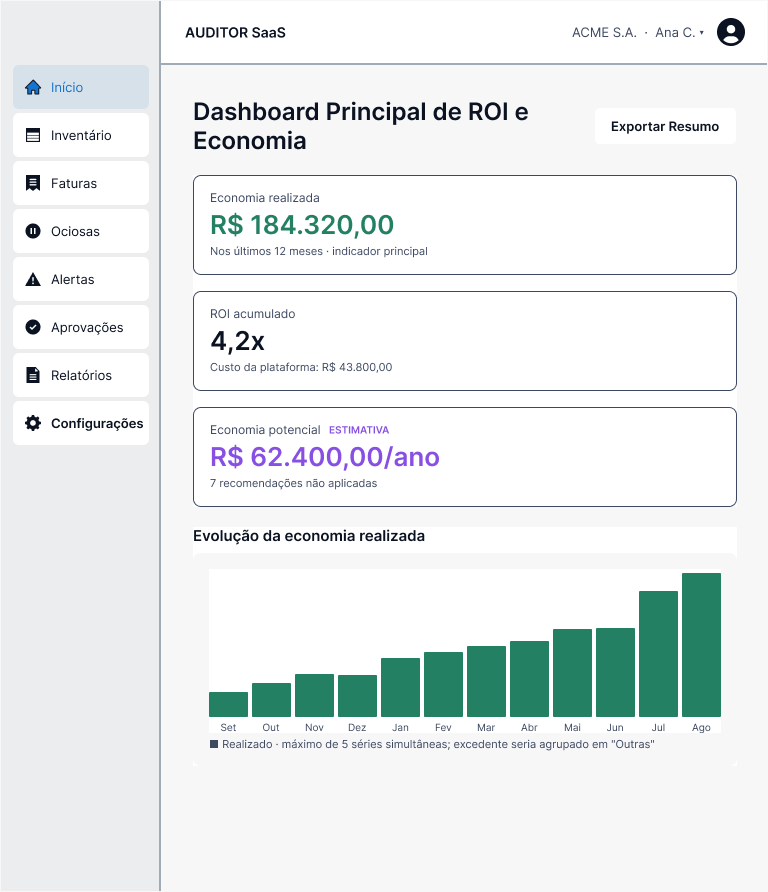
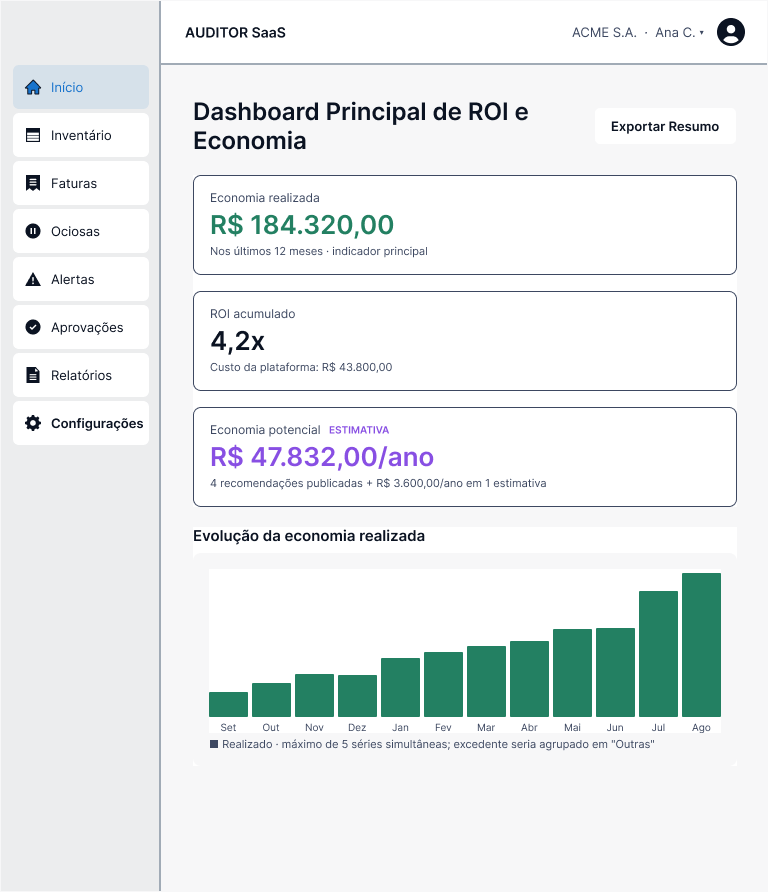
Aplica AJ-11 na SCR-08 e registra o aceite da equipe no termo

Changed region(s): [[0.3125, 0.4843, 0.5938, 0.5448], [0.6562, 0.5146, 0.6875, 0.5448]]

diff --git a/semana-14/entregavel-02-handoff-figma-termo-aceite.md b/semana-14/entregavel-02-handoff-figma-termo-aceite.md
@@ -3,7 +3,7 @@
 **Projeto:** Auditor e Otimizador de Assinaturas SaaS Corporativas  
 **Iteração:** Semana 14 (09/11/2026 – 15/11/2026) — Handoff Técnico e Encerramento  
 **Responsável:** D1 / D2 (Designers), com AR1 / AR2  
-**Situação:** ⏳ **Pendente de aceite** — pacote de handoff descrito e termo redigido; **termo não assinado** e preparação do arquivo no Figma a conferir  
+**Situação:** ✅ **Aceito pela equipe** — pacote de handoff descrito e termo com o aceite dos 5 integrantes; falta a linha do orientador  
 **Prazo:** 15/11/2026  
 
 ---
@@ -20,8 +20,8 @@ e o **Termo de Aceite** (Seção 7).
 | Inventário de telas e de capturas | ✅ Pronto (Seção 3) |
 | Guia de leitura para desenvolvedores | ✅ Pronto (Seções 4 e 5) |
 | Preparação do arquivo para handoff no Figma | ⏳ A conferir pela D1/D2 (Seção 6) |
-| Versão final do protótipo, com os ajustes da Semana 13 | ◐ 12 de 14 ajustes aplicados; `AJ-11` aguarda a P-62 |
-| Termo de Aceite | ⏳ Redigido; **sem assinatura** (Seção 7) |
+| Versão final do protótipo, com os ajustes da Semana 13 | ✅ 13 de 14 ajustes aplicados (o `AJ-14` era opcional) |
+| Termo de Aceite | ✅ Aceite da equipe registrado (Seção 7); falta a linha do orientador |
 
 > **O que este documento não afirma.** O arquivo do Figma não foi aberto nesta iteração. O
 > inventário abaixo vem dos registros de entrega das Semanas 08 a 11 e das capturas versionadas
@@ -39,7 +39,7 @@ e o **Termo de Aceite** (Seção 7).
 | Quadro das telas | "02 · Wireframes", um quadro por tela (registro da Semana 08) |
 | Ponto de partida do protótipo | HF-41 — Estado vazio da SCR-01 (*Início — primeiro acesso*) |
 | Versão de referência | Protótipo ligado na Semana 11, com a correção da P-50 |
-| Versão final (com os ajustes da Semana 13) | No mesmo arquivo: 12 de 14 ajustes aplicados; `AJ-11` aguarda a P-62 |
+| Versão final (com os ajustes da Semana 13) | No mesmo arquivo: 13 de 14 ajustes aplicados |
 | Permissão de acesso para a Engenharia | A conferir (Seção 6) |
 
 ---
@@ -123,9 +123,8 @@ Decisões que valem para todas as telas e que uma captura de tela não revela:
 ### 4.3. Valores de exemplo
 
 Os números exibidos nas telas Hi-Fi seguem a **massa canônica** (S8·E1 e S9·E1, Seção 10). Os
-valores dos wireframes Lo-Fi e Mid-Fi estão superados. O período e o filtro da SCR-10a foram
-alinhados na Semana 13 (`AJ-09`, `AJ-10`). Um ponto do Hi-Fi ainda diverge da massa canônica: a
-contagem de recomendações da SCR-08 (`AJ-11`, P-62).
+valores dos wireframes Lo-Fi e Mid-Fi estão superados. Os pontos que divergiam (período e filtro da
+SCR-10a, contagem de recomendações da SCR-08) foram alinhados na Semana 13 (`AJ-09` a `AJ-11`).
 
 ---
 
@@ -164,7 +163,7 @@ Itens que só podem ser conferidos dentro do arquivo. Nenhum foi marcado nesta v
 - [ ] Estilos de cor e de texto ligados aos tokens, e não a valores soltos
 - [ ] Telas prontas separadas de rascunhos e de versões antigas (Lo-Fi e Mid-Fi)
 - [ ] Ponto de partida do protótipo em HF-41 e fluxo percorrível de T1 a T8
-- [x] Ajustes `AJ-01` a `AJ-13` aplicados e capturas reexportadas, exceto o `AJ-11` (P-62)
+- [x] Ajustes `AJ-01` a `AJ-13` aplicados e capturas reexportadas
 - [ ] Imagens e ícones marcados para exportação
 - [ ] Versão nomeada no histórico do arquivo (por exemplo, "Handoff v1.0") e registrada na Seção 2
 
@@ -172,15 +171,13 @@ Itens que só podem ser conferidos dentro do arquivo. Nenhum foi marcado nesta v
 
 ## 7. Termo de Aceite do Protótipo
 
-> **Minuta.** O texto abaixo está pronto para ser assinado. Enquanto os campos de assinatura
-> estiverem em branco, **o protótipo não está aceito**.
+> **Aceite da equipe registrado em 19/11/2026.** Falta só a linha do orientador ou cliente.
 
 ### TERMO DE ACEITE DO PROTÓTIPO DE ALTA FIDELIDADE
 
 **Projeto:** Auditor e Otimizador de Assinaturas SaaS Corporativas  
 **Objeto:** protótipo navegável de alta fidelidade, publicado no arquivo "Projeto de Software" do Figma  
-**Versão aceita:** `____________________` (nome da versão no histórico do Figma)  
-**Data da versão:** `____ / ____ / ________`
+**Versão aceita:** estado do arquivo no Figma em 19/11/2026, com os ajustes da Semana 13
 
 #### 7.1. O que está sendo aceito
 
@@ -207,7 +204,7 @@ aceite, desde que fique registrada.
 | # | Ressalva | Referência | Resolvida? |
 |:--|:---|:---|:---:|
 | R1 | Testes de usabilidade com os usuários-alvo não realizados; só 1 sessão simulada pela equipe (SUS 90, n = 1) | S13·E1 · P-60 | ☐ Sim ☐ Não |
-| R2 | Ajuste `AJ-11` do protótipo não aplicado (depende da P-62); os demais foram aplicados | S13·E2 | ☐ Sim ☐ Não |
+| R2 | Ajustes `AJ-01` a `AJ-13` do protótipo aplicados na Semana 13 | S13·E2 | ☒ Sim ☐ Não |
 | R3 | Decisões DEC-66 a DEC-100 não ratificadas | Anexo B · P-63 | ☐ Sim ☐ Não |
 | R4 | Correções CU-01 a CU-14 não aplicadas aos documentos de origem | S13, Anexo A | ☐ Sim ☐ Não |
 | R5 | API restrita a `/erp/*`, com duas enumerações incompletas e testes sem execução registrada | Dossiê, Seção 7 · P-36 · P-66 | ☐ Sim ☐ Não |
@@ -224,12 +221,15 @@ ficam registradas como trabalho remanescente.
 
 | Papel | Nome | Assinatura | Data |
 |:---|:---|:---|:---|
-| AR1 — Analista de Requisitos (Bloco A) | | | |
-| AR2 — Analista de Requisitos (Bloco B) | | | |
-| D1 — Designer (Bloco A) | | | |
-| D2 — Designer (Bloco B) | | | |
-| Representante do time de Engenharia | | | |
+| AR1 — Analista de Requisitos | Matheus Augusto de Paula Soares | De acordo | 19/11/2026 |
+| AR2 — Analista de Requisitos | Fabio Firanzi Bidjoque da Costa | De acordo | 19/11/2026 |
+| AR3 — Analista de Requisitos ¹ | Tiago Correia Braga | De acordo | 19/11/2026 |
+| D1 — Designer | Heitor Dias Ribeiro | De acordo | 19/11/2026 |
+| D2 — Designer | Júlia Elloá Fideles Barbosa | De acordo | 19/11/2026 |
+| Representante do time de Engenharia | Não se aplica (trabalho acadêmico, sem time de Engenharia) | — | — |
 | Orientador ou cliente | | | |
+
+¹ O `estudo_caso1.md` prevê 4 papéis (AR1, AR2, D1 e D2). O AR3 foi acrescentado porque a equipe tem 5 integrantes.
 
 ---
 
@@ -239,7 +239,7 @@ Nenhuma decisão nova.
 
 | ID | Item | Encaminhamento |
 |:---|:---|:---|
-| P-65 | Termo de Aceite sem assinatura e sem versão do Figma indicada | Equipe: conferir a Seção 6, publicar a versão e colher as assinaturas |
+| P-65 | Termo de Aceite sem assinatura e sem versão do Figma indicada | **Resolvida** — versão indicada (estado do arquivo em 19/11/2026) e aceite da equipe registrado em 19/11/2026 |
 
 ---
 

diff --git a/semana-13/README.md b/semana-13/README.md
@@ -26,7 +26,7 @@
 | Equipe | Atividade prevista no cronograma | Situação | Onde está |
 |:---|:---|:---:|:---|
 | **AR1 / AR2** | Atualização da especificação funcional e requisitos com base no feedback dos usuários | ◐ Parcial — sem feedback de usuário; errata conferida (14 correções registradas, 0 aplicadas) | Anexo A |
-| **D1 / D2** | Ajuste fino das telas, fluxos de navegação e componentes no protótipo | Concluído — 12 de 14 ajustes aplicados no Figma, 9 telas novas | Entregável 2 |
+| **D1 / D2** | Ajuste fino das telas, fluxos de navegação e componentes no protótipo | Concluído — 13 de 14 ajustes aplicados no Figma, 9 telas novas | Entregável 2 |
 
 ---
 
@@ -35,7 +35,7 @@
 | # | Entregável | Documento | Resp. |
 |:--|:---|:---|:---|
 | 1 | Relatório de Avaliação de Usabilidade e Cálculo da Nota SUS | [entregavel-01-relatorio-avaliacao-usabilidade-sus.md](entregavel-01-relatorio-avaliacao-usabilidade-sus.md) — ◐ **parcial**. Método do SUS, protocolo de análise e inspeção (9 fricções) prontos; **nota SUS 90 com 1 questionário (USR-01, simulada)** | AR1/AR2 |
-| 2 | Protótipo Hi-Fi Refatorado com Ajustes Visuais e de Fluxo | [entregavel-02-prototipo-hifi-refatorado.md](entregavel-02-prototipo-hifi-refatorado.md) — ✅ **aplicado**. 14 ajustes especificados (`AJ-01` a `AJ-14`); **12 aplicados ou conferidos no Figma**, 9 telas novas em [`wireframes/semana-13/`](../wireframes/semana-13/) | D1/D2 |
+| 2 | Protótipo Hi-Fi Refatorado com Ajustes Visuais e de Fluxo | [entregavel-02-prototipo-hifi-refatorado.md](entregavel-02-prototipo-hifi-refatorado.md) — ✅ **aplicado**. 14 ajustes especificados (`AJ-01` a `AJ-14`); **13 aplicados ou conferidos no Figma**, 9 telas novas em [`wireframes/semana-13/`](../wireframes/semana-13/) | D1/D2 |
 | — | Anexo: atualização da especificação funcional (atividade da AR1/AR2) | [anexo-a-atualizacao-especificacao-funcional.md](anexo-a-atualizacao-especificacao-funcional.md) — errata CU-01 a CU-14 conferida arquivo a arquivo; 6 ajustes no roteiro de teste | AR1/AR2 |
 
 O cronograma não prevê Entregável 3 (diagramas UML) nesta semana, e a matriz de
@@ -82,7 +82,7 @@ O cronograma não prevê Entregável 3 (diagramas UML) nesta semana, e a matriz 
 | Fricções encontradas por inspeção | 9 (`FR-01` a `FR-09`): 1 de fluxo que afeta 5 tarefas, 1 alta, 4 médias, 3 baixas |
 | Tarefas do roteiro sem término mensurável | 0 de 8 depois dos ajustes (eram 5, mais T6 sem a peça de e-mail) |
 | Exemplos do `estudo_caso1.md` conferidos contra o Hi-Fi | 3 de 3 já tratados no desenho |
-| Ajustes especificados para o protótipo | 14 (`AJ-01` a `AJ-14`): 8 de fluxo, 6 de conteúdo e higiene · 12 aplicados ou conferidos |
+| Ajustes especificados para o protótipo | 14 (`AJ-01` a `AJ-14`): 8 de fluxo, 6 de conteúdo e higiene · 13 aplicados ou conferidos |
 | Telas novas no protótipo | 9 (8 estados de confirmação e o e-mail de alerta) |
 | Ligações do protótipo | 309 de navegação + 27 de aprofundamento (Semana 11: 248 + 9) |
 | Correções `CU` conferidas | 14 registradas · 0 aplicadas · 2 liberadas para aplicação |
@@ -114,7 +114,7 @@ A numeração continua a da Semana 12 (última: DEC-95). Todas estão como **Pro
 | P-59 | E-mail simulado da T6 (RI-20) não existe | **Resolvida** — e-mail produzido com os valores da SCR-06 (`AJ-08`) |
 | P-60 | Realização das sessões com os usuários-alvo: a Semana 12 executou só a USR-01, simulada pela equipe | Equipe e orientador definem data e participantes (com a P-54) |
 | P-61 | Conferir na fonte as faixas de leitura do SUS e a versão em português dos enunciados | AR1, antes do relatório final |
-| P-62 | SCR-08 mostra 7 recomendações e R$ 62.400,00/ano; a massa canônica do Bloco A tem 5 | AR2 e D2: alinhar ou declarar o período (`AJ-11`) |
+| P-62 | SCR-08 mostra 7 recomendações e R$ 62.400,00/ano; a massa canônica do Bloco A tem 5 | **Resolvida** — alinhado à massa canônica (`AJ-11`) |
 | P-63 | Ratificação das decisões DEC-66 a DEC-100, todas em situação *Proposta* | Reunião da equipe antes do handoff |
 | P-64 | Aplicar CU-01 e CU-02, que não dependem de decisão pendente | Responsáveis pela Semana 02 |
 
@@ -135,7 +135,7 @@ A marcar pela equipe:
 
 - [x] Decidir a P-58 e aplicar `AJ-01` a `AJ-08` no Figma
 - [x] Aplicar os ajustes de conteúdo (`AJ-09`, `AJ-10`, `AJ-12`, `AJ-13`)
-- [ ] Decidir a P-62 (`AJ-11`)
+- [x] Decidir a P-62 e aplicar o `AJ-11`
 - [ ] Atualizar o roteiro (`RT-01` a `RT-06`) na aba `Catalogo` da planilha da Semana 12
 - [ ] Realizar as sessões (P-60), depois de resolver P-53, P-54 e P-55
 - [x] Calcular a nota SUS e preencher as Seções 7.1 a 7.3 do Entregável 1 (USR-01)
@@ -161,7 +161,7 @@ A marcar pela equipe:
 ## Entradas para a Semana 14 (Handoff Técnico e Encerramento)
 
 - **Entregável 1** → o dossiê registra a validação com usuários-alvo como **não realizada**; existe só a sessão simulada USR-01 (SUS 90, n = 1).
-- **Entregável 2** → o handoff parte do protótipo com os ajustes aplicados; só o `AJ-11` (P-62) segue como ressalva.
+- **Entregável 2** → o handoff parte do protótipo com os ajustes aplicados.
 - **Anexo A, Seção 3** → seção de erratas do dossiê (CU-01 a CU-14 e a regra DEC-100).
 - **Anexo A, Seção 5** → itens propostos e não incorporados (cenários, `ENT`, `MSG`, parâmetros).
 - **P-63** → condição do Termo de Aceite: 35 decisões aguardam ratificação.
@@ -188,7 +188,7 @@ semana-13/
   registro de ligações da Semana 11; se houver ligação não documentada, ela muda. A conferência
   no Figma é o primeiro item do Entregável 2. Só quatro capturas foram abertas (SCR-02b,
   SCR-08, SCR-09 e SCR-10a).
-- **O `AJ-11` não foi aplicado**: depende da P-62. O `AJ-14`, opcional, também não foi feito.
+- **O `AJ-14`, opcional, não foi feito.**
 - **As faixas de leitura do SUS** foram citadas de memória da literatura e precisam ser
   conferidas na fonte (P-61).
 - **A conferência das `CU`** foi feita por busca de texto: prova que o trecho antigo continua

diff --git a/semana-14/README.md b/semana-14/README.md
@@ -25,7 +25,7 @@
 |:---|:---|:---:|:---|
 | **Equipe integrada** | Liberação da Matriz de Rastreabilidade final | ✅ Consolidada | Entregável 1, Anexo A |
 | **Equipe integrada** | Liberação da Swagger API Spec | ◐ Parcial — só `/erp/*`; duas correções e a execução dos testes pendentes | Entregável 1, Seção 7 |
-| **Equipe integrada** | Liberação do Protótipo Interativo Hi-Fi | ◐ Versão com os ajustes da Semana 13 (12 de 14 aplicados; `AJ-11` aguarda a P-62) | Entregável 2 |
+| **Equipe integrada** | Liberação do Protótipo Interativo Hi-Fi | ✅ Versão com os ajustes da Semana 13 (13 de 14 aplicados; o `AJ-14` era opcional) | Entregável 2 |
 | **Equipe integrada** | Liberação do Design System para a Engenharia | ✅ Indexado, com ressalvas | Entregável 2, Seção 5 |
 
 ---
@@ -37,7 +37,7 @@
 | 1 | Dossiê Completo de Engenharia de Requisitos (Visão, Especificações e Swagger) | [entregavel-01-dossie-engenharia-requisitos.md](entregavel-01-dossie-engenharia-requisitos.md) — ◐ **consolidado, com ressalvas** | Equipe |
 | 1-A | Anexo: Matriz de Rastreabilidade Final | [anexo-a-matriz-rastreabilidade-final.md](anexo-a-matriz-rastreabilidade-final.md) — 10 requisitos em 12 camadas | Equipe |
 | 1-B | Anexo: Registro de Decisões e Pendências | [anexo-b-registro-decisoes-pendencias.md](anexo-b-registro-decisoes-pendencias.md) — DEC-01 a DEC-100 e P-01 a P-67 | Equipe |
-| 2 | Link Final do Figma com Handoff para Desenvolvedores e Termo de Aceite do Protótipo | [entregavel-02-handoff-figma-termo-aceite.md](entregavel-02-handoff-figma-termo-aceite.md) — ⏳ **pendente de aceite**. Pacote de handoff descrito; termo redigido e **sem assinatura** | D1/D2 |
+| 2 | Link Final do Figma com Handoff para Desenvolvedores e Termo de Aceite do Protótipo | [entregavel-02-handoff-figma-termo-aceite.md](entregavel-02-handoff-figma-termo-aceite.md) — ✅ **aceito pela equipe**. Pacote de handoff descrito; termo com o aceite dos 5 integrantes | D1/D2 |
 
 O cronograma não prevê entregável de diagramas UML nesta semana. O índice dos diagramas, com a
 versão vigente de cada um, está no Entregável 1, Seção 6.
@@ -81,7 +81,7 @@ versão vigente de cada um, está no Entregável 1, Seção 6.
 | Requisitos prontos para engenharia, com ressalvas | 10 de 10 |
 | Requisitos validados com usuários | 0 de 10 |
 | Decisões registradas | 100 — 65 decididas · **35 propostas** |
-| Pendências registradas | 67 — 17 resolvidas · 10 com resolução proposta ou parcial · **40 abertas** |
+| Pendências registradas | 67 — 19 resolvidas · 10 com resolução proposta ou parcial · **38 abertas** |
 | Correções `CU` | 14 registradas · 0 aplicadas |
 | Diagramas UML indexados | 7 tipos, com versão vigente e ressalva |
 | Caminhos da API especificados | 9, todos em `/erp/*` |
@@ -103,7 +103,7 @@ Nenhuma decisão nova nesta iteração. O registro consolidado das 100 decisões
 
 | ID | Item | Encaminhamento |
 |:---|:---|:---|
-| P-65 | Termo de Aceite sem assinatura e sem versão do Figma indicada | Equipe: conferir o arquivo (Entregável 2, Seção 6), publicar a versão e colher as assinaturas |
+| P-65 | Termo de Aceite sem assinatura e sem versão do Figma indicada | **Resolvida** — versão indicada e aceite da equipe registrado |
 | P-66 | Não há registro de execução dos testes automatizados da Semana 07 (`npm test`, `validar_openapi.py`); esta iteração também não os executou | Executar e registrar o resultado antes de liberar a API |
 | P-67 | A Semana 12 não tem seção no `definicoes.md` (as Semanas 13 e 14 foram acrescentadas nesta entrega) | **Resolvida** — seção acrescentada |
 
@@ -125,12 +125,12 @@ A marcar pela equipe. Os quatro primeiros itens são condição do aceite.
 - [ ] Ratificar DEC-66 a DEC-100 (P-63)
 - [ ] Aplicar CU-01 a CU-14 nos arquivos de origem
 - [ ] Executar e registrar os testes da Semana 07 (P-66)
-- [x] Aplicar `AJ-01` a `AJ-13` no Figma (exceto o `AJ-11`, que depende da P-62)
+- [x] Aplicar `AJ-01` a `AJ-13` no Figma
 - [ ] Publicar a versão de handoff e conferir a Seção 6 do Entregável 2
 - [ ] Decidir o escopo da API (P-36)
 - [ ] Realizar as sessões de teste e fechar o relatório da Semana 13 (P-60)
 - [ ] Encaminhar parâmetros ao cliente e pendências de conformidade ao DPO e ao jurídico
-- [ ] Assinar o Termo de Aceite (P-65)
+- [x] Assinar o Termo de Aceite (P-65) — falta só a linha do orientador
 - [ ] Atualizar a coluna "Status UI/UX" do `estudo_caso1.md` ou apontá-la para a matriz final
 
 ---
@@ -171,6 +171,6 @@ semana-14/
   das Semanas 08 a 11.
 - **Nenhum teste automatizado foi executado** nesta iteração.
 - **O mapa de recursos da API é insumo**, e não especificação.
-- **O Termo de Aceite é minuta.** Sem assinatura, não há aceite.
+- **O Termo de Aceite tem o aceite da equipe**, mas não a do orientador.
 - **A situação das pendências** é a do último documento que cita cada uma; uma pendência
   resolvida fora do repositório aparece aqui como aberta.

diff --git a/semana-14/entregavel-01-dossie-engenharia-requisitos.md b/semana-14/entregavel-01-dossie-engenharia-requisitos.md
@@ -34,7 +34,7 @@ os artefatos das 13 semanas: diz o que existe, onde está, em que versão e com 
 | Matriz de rastreabilidade final | ✅ Consolidada | 0 de 10 requisitos "Concluído" pelo critério proposto; 10 de 10 com ressalvas |
 | Especificações (BDD, regras, dicionário, UML) | ✅ Entregues | 14 correções registradas e não aplicadas; 35 decisões não ratificadas |
 | Swagger / OpenAPI | ◐ Parcial | Cobre só `/erp/*` (versão 0.1.0); duas correções pendentes; testes não executados |
-| Protótipo interativo Hi-Fi | ◐ Entregue na Semana 11, ajustado na Semana 13 | 12 de 14 ajustes aplicados; `AJ-11` aguarda a P-62 |
+| Protótipo interativo Hi-Fi | ✅ Entregue na Semana 11, ajustado na Semana 13 | 13 de 14 ajustes aplicados (o `AJ-14` era opcional) |
 | Design System | ✅ Entregue na Semana 06 | Conferência dos tokens com o Figma pendente (P-31) |
 | Validação com usuários e nota SUS | ◐ Só sessão simulada | 1 sessão entre integrantes da equipe (USR-01, SUS 90, n = 1); nenhuma com os usuários-alvo |
 
@@ -198,7 +198,7 @@ A situação de cada requisito, camada por camada, está no [Anexo A](anexo-a-ma
 | Telas de exceção | [S10·E1](../semana-10/entregavel-01-pacote-telas-excecao.md) |
 | Aplicação visual de RN03 e RN04 | [S10·E2](../semana-10/entregavel-02-aplicacao-visual-rn03-rn04.md) |
 | Protótipo navegável | [S11·E1](../semana-11/entregavel-01-prototipo-navegavel-unificado.md) |
-| Ajustes do protótipo (12 de 14 aplicados) | [S13·E2](../semana-13/entregavel-02-prototipo-hifi-refatorado.md) |
+| Ajustes do protótipo (13 de 14 aplicados) | [S13·E2](../semana-13/entregavel-02-prototipo-hifi-refatorado.md) |
 
 ### 5.3. Validação
 
@@ -297,7 +297,7 @@ paginação e formato monetário, e podem ser reaproveitadas sem alteração.
 | Valores de exemplo nas telas | Vale a massa canônica (S8·E1 e S9·E1, Seção 10), e não os números dos wireframes Lo-Fi e Mid-Fi | DEC-78 e DEC-89 (propostas) |
 | Tarefas do teste de usabilidade | Vale a numeração T1 a T8 do plano da Semana 11, e não as 5 tarefas do `estudo_caso1.md` | DEC-90 (proposta) |
 | Situação dos requisitos | Vale o [Anexo A](anexo-a-matriz-rastreabilidade-final.md), e não a coluna "Status UI/UX" do `estudo_caso1.md` | DEC-76 (proposta) |
-| Protótipo | Vale a versão com os ajustes da Semana 13; só o `AJ-11` não foi aplicado | S13·E2, Seção 6 |
+| Protótipo | Vale a versão com os ajustes da Semana 13 | S13·E2, Seção 6 |
 
 **Itens propostos e ainda fora dos documentos de origem** (não fazem parte da especificação
 vigente): 9 cenários (`CT-01.9`, `CT-02.14`, `CT-02.15`, `CT-03.8`, `CT-04.13`, `CT-04.14`,
@@ -338,8 +338,8 @@ Lista direta, para que nada abaixo seja presumido como entregue.
 1. **O produto não foi validado com os usuários-alvo.** Houve só uma sessão, simulada entre
    integrantes da equipe (USR-01: 5 de 5 tarefas, SUS 90, 1 problema P3). Com n = 1, ela confere
    o método, mas não valida a usabilidade (P-60).
-2. **Um ajuste do protótipo segue pendente.** Os estados de confirmação foram ligados na Semana 13
-   e as 8 tarefas podem ser medidas até o fim; só o `AJ-11` (contagem da SCR-08) aguarda a P-62 (S13·E2).
+2. **O protótipo foi ajustado, mas não retestado.** Os estados de confirmação foram ligados na
+   Semana 13 e as 8 tarefas podem ser medidas até o fim; nenhuma sessão rodou depois disso (S13·E2).
 3. **35 das 100 decisões não foram ratificadas** (P-63). Entre elas estão as que definem a
    massa de dados canônica, o modelo de classes v1.0 e todas as convenções da API.
 4. **14 correções de especificação estão registradas e não aplicadas.** Cenários, casos de uso,
@@ -362,7 +362,7 @@ A marcar pela equipe. Os quatro primeiros itens são condição do Termo de Acei
 - [ ] Ratificar as decisões DEC-66 a DEC-100 (P-63)
 - [ ] Aplicar as correções CU-01 a CU-14 nos arquivos de origem, com os testes da Semana 07 no mesmo commit
 - [ ] Executar `npm test` e `validar_openapi.py` da Semana 07 e registrar o resultado (P-66)
-- [x] Aplicar `AJ-01` a `AJ-13` no Figma (exceto o `AJ-11`, que depende da P-62)
+- [x] Aplicar `AJ-01` a `AJ-13` no Figma
 - [ ] Decidir o escopo da API além de `/erp/*` (P-36), a partir do mapa da Seção 7.3
 - [ ] Realizar as sessões de teste e fechar o relatório da Semana 13 (P-60)
 - [ ] Encaminhar ao cliente os 23 parâmetros de homologação

diff --git a/semana-13/entregavel-02-prototipo-hifi-refatorado.md b/semana-13/entregavel-02-prototipo-hifi-refatorado.md
@@ -3,7 +3,7 @@
 **Projeto:** Auditor e Otimizador de Assinaturas SaaS Corporativas  
 **Iteração:** Semana 13 (02/11/2026 – 08/11/2026) — Ajustes e Tratamento de Fricções de UX  
 **Responsável:** D1 / D2 (Designers), com AR1 / AR2 na conferência  
-**Situação:** ✅ **Aplicado no Figma** — 12 de 14 ajustes aplicados ou conferidos; `AJ-11` aguarda decisão (P-62) e `AJ-14` (opcional) não foi feito  
+**Situação:** ✅ **Aplicado no Figma** — 13 de 14 ajustes aplicados ou conferidos; só o `AJ-14` (opcional) não foi feito  
 **Prazo:** 08/11/2026  
 
 ---
@@ -105,7 +105,7 @@ couberem, numerados a partir de `AJ-15`.
 
 | Data | Link do Figma | Ajustes aplicados | Observação |
 |:---|:---|:---|:---|
-| 19/11/2026 | [Projeto de Software — Figma](https://www.figma.com/design/3XaNdOU1zdQisXFuDrvB6O/Projeto-de-Software) | 12 de 14 | Mesmo arquivo da Semana 11, página *Wireframes*. Telas novas na linha abaixo das variantes tablet |
+| 19/11/2026 | [Projeto de Software — Figma](https://www.figma.com/design/3XaNdOU1zdQisXFuDrvB6O/Projeto-de-Software) | 13 de 14 | Mesmo arquivo da Semana 11, página *Wireframes*. Telas novas na linha abaixo das variantes tablet |
 
 ### 6.1. O que foi feito em cada ajuste
 
@@ -125,14 +125,14 @@ componentes), alteradas só no que o ajuste pede. A confirmação usa um compone
 | AJ-08 | ✅ | Peça nova: e-mail com valor, data e dias restantes da Salesforce, iguais aos da SCR-06. Ponto de partida próprio no protótipo (*"T6 — E-mail de alerta de renovação"*) e link *"Abrir no Auditor SaaS"* para a SCR-06 | [aj08](../wireframes/semana-13/aj08-email-alerta-renovacao.png) |
 | AJ-09 | ✅ | SCR-10a e tablet: *"Período: set/2026"* | [SCR-10a](../wireframes/semana-09/scr-10a-exportacao.png) |
 | AJ-10 | ✅ | SCR-10a e tablet: *"Categoria: Design, DevTools e Comunicação"*, o escopo canônico | idem |
-| AJ-11 | ⏳ | Não aplicado: depende da P-62 | — |
+| AJ-11 | ✅ | A equipe decidiu alinhar à massa canônica (P-62): o card da SCR-08 e do tablet mostra *"R$ 47.832,00/ano · 4 recomendações publicadas + R$ 3.600,00/ano em 1 estimativa"*, os mesmos números da SCR-05 | [SCR-08](../wireframes/semana-09/scr-08-dashboard-roi.png) |
 | AJ-12 | ✅ | Conferido: a SCR-05 já tem o botão *"Exportar"* com a frase que explica o destino. Nada a mudar | — |
 | AJ-13 | ✅ | Quadro do Mid-Fi renomeado de *"M-01 - Detalhe da divergência"* para *"M-06 - Aprovação com bloqueio da RN04"* | — |
 | AJ-14 | — | Opcional; não feito | — |
 
 **Tablets.** As telas novas de confirmação ficaram só em desktop, como as SCR-02b e SCR-02c, que
 também não têm tablet. Foram alterados os tablets das telas existentes que mudaram: SCR-10
-(filtros) e SCR-03 (botão novo). O tablet da SCR-03 também foi aumentado, porque já cortava o
+(filtros), SCR-03 (botão novo) e SCR-08 (card de economia potencial). O tablet da SCR-03 também foi aumentado, porque já cortava o
 Zoom e a seção do Notion antes desta entrega.
 
 **Ligações.** Semana 11: 248 de navegação + 9 de aprofundamento. Esta entrega acrescenta 61 de
@@ -146,7 +146,7 @@ Nenhuma decisão nova: os ajustes aplicam decisões já registradas.
 
 | ID | Item | Encaminhamento |
 |:---|:---|:---|
-| P-62 | SCR-08 mostra 7 recomendações e R$ 62.400,00/ano; a massa canônica do Bloco A tem 5 recomendações. Pendente desde a Semana 08 | AR2 e D2 decidem: alinhar ou declarar o período na tela (AJ-11) |
+| P-62 | SCR-08 mostra 7 recomendações e R$ 62.400,00/ano; a massa canônica do Bloco A tem 5 recomendações. Pendente desde a Semana 08 | **Resolvida** — alinhado à massa canônica (AJ-11) |
 | P-58 · P-59 | Fim das tarefas e e-mail da T6 | **Resolvidas** pela aplicação de `AJ-01` a `AJ-08` (Seção 6.1) |
 | P-45 · P-47 · P-48 | Herdadas das Semanas 09 e 10 | Encaminhadas por `AJ-13`, `AJ-07` e `AJ-14` |
 

diff --git a/definicoes.md b/definicoes.md
@@ -1231,8 +1231,8 @@ Encontradas sem usuários, pelo confronto do roteiro com o registro do protótip
 ## 2. Protótipo Hi-Fi Refatorado
 
 14 ajustes especificados (`AJ-01` a `AJ-14`): 8 de fluxo, que ligam a ação final de cada tarefa
-a um estado de confirmação, e 6 de conteúdo e higiene. **12 aplicados ou conferidos no Figma**,
-com 9 telas novas; o `AJ-11` aguarda a P-62 e o `AJ-14` (opcional) não foi feito.
+a um estado de confirmação, e 6 de conteúdo e higiene. **13 aplicados ou conferidos no Figma**,
+com 9 telas novas; só o `AJ-14` (opcional) não foi feito.
 
 ---
 
@@ -1254,7 +1254,7 @@ conferidas arquivo a arquivo: **0 aplicadas**. Seis ajustes no roteiro de teste 
 | P-59 | E-mail simulado da T6 | Aberta |
 | P-60 | Realização das sessões de teste | Aberta |
 | P-61 | Conferir na fonte as faixas de leitura do SUS | Aberta |
-| P-62 | SCR-08 com 7 recomendações × 5 da massa canônica | Aberta |
+| P-62 | SCR-08 com 7 recomendações × 5 da massa canônica | **Resolvida** — alinhado à massa canônica (AJ-11) |
 | P-63 | Ratificação das decisões DEC-66 a DEC-100 | Aberta |
 | P-64 | Aplicar CU-01 e CU-02, que não dependem de decisão pendente | Aberta |
 
@@ -1282,7 +1282,7 @@ L12 — validação com usuários).
 | Indicador | Valor |
 |:---|:---|
 | Decisões | 100 — 65 decididas (DEC-01 a DEC-65) · 35 propostas (DEC-66 a DEC-100) |
-| Pendências | 67 — 17 resolvidas · 10 com resolução proposta ou parcial · 40 abertas |
+| Pendências | 67 — 19 resolvidas · 10 com resolução proposta ou parcial · 38 abertas |
 
 ### Especificação da API
 
@@ -1295,13 +1295,13 @@ aplicadas. O dossiê traz um mapa de 13 recursos como insumo para a decisão de 
 ## 2. Handoff do Figma e Termo de Aceite
 
 Inventário do protótipo (32 telas com barra lateral, 2 modais, 1 Portal do Titular), guia de
-leitura para desenvolvedores, índice do Design System e minuta do Termo de Aceite com 9
-ressalvas (R1 a R9). **O termo não está assinado.**
+leitura para desenvolvedores, índice do Design System e Termo de Aceite com 9 ressalvas (R1 a
+R9). **Aceito pela equipe em 19/11/2026**; falta a linha do orientador.
 
 ### Decisões e Pendências (DEC-XX e P-XX)
 
 | ID | Item | Situação |
 |:---|:---|:---|
-| P-65 | Termo de Aceite sem assinatura e sem versão do Figma indicada | Aberta |
+| P-65 | Termo de Aceite sem assinatura e sem versão do Figma indicada | **Resolvida** — aceite da equipe registrado |
 | P-66 | Testes automatizados da Semana 07 sem execução registrada | Aberta |
 | P-67 | A Semana 12 não tem seção neste documento | **Resolvida** — seção acrescentada |

diff --git a/semana-14/anexo-b-registro-decisoes-pendencias.md b/semana-14/anexo-b-registro-decisoes-pendencias.md
@@ -162,6 +162,8 @@ aplicação) · **Parcial** · **Aberta**.
 | P-45 | Quadro do Figma com o nome "M-01" | Quadro renomeado para "M-06 - Aprovação com bloqueio da RN04" (`AJ-13`) | Semana 13, Entregável 2, Seção 6.1 |
 | P-58 · P-59 | Fim das tarefas no protótipo; e-mail simulado da T6 | Estados de confirmação ligados e e-mail produzido (`AJ-01` a `AJ-08`) | Semana 13, Entregável 2, Seção 6.1 |
 | P-67 | Semana 12 sem seção no `definicoes.md` | Seção acrescentada | `definicoes.md`, Semana 12 |
+| P-65 | Termo de Aceite sem assinatura e sem versão do Figma indicada | Versão indicada (estado do arquivo em 19/11/2026) e aceite dos 5 integrantes registrado | Semana 14, Entregável 2, Seção 7 |
+| P-62 | SCR-08 com 7 recomendações × 5 da massa canônica | Card alinhado à massa canônica: R$ 47.832,00/ano em 4 publicadas + 1 estimativa (`AJ-11`) | Semana 13, Entregável 2, Seção 6.1 |
 
 ### 3.2. Com resolução proposta ou parcial
 
@@ -206,10 +208,9 @@ aplicação) · **Parcial** · **Aberta**.
 | P-52 a P-55 | Critérios de T1, T3 e T5; duração da sessão; número de participantes; consentimento e retenção dos vídeos | Equipe, orientador e DPO |
 | P-60 | Realização das sessões de teste de usabilidade | Equipe e orientador |
 | P-61 | Conferir na fonte as faixas de leitura do SUS | AR1 |
-| P-62 | SCR-08 com 7 recomendações × 5 da massa canônica | AR2 e D2 |
 | P-63 | Ratificação das decisões DEC-66 a DEC-100 | Equipe |
 | P-64 | Aplicar CU-01 e CU-02 | Responsáveis pela Semana 02 |
-| P-65 · P-66 | Abertas na Semana 14 (aceite, testes automatizados) | Ver README da Semana 14 |
+| P-66 | Aberta na Semana 14 (testes automatizados) | Ver README da Semana 14 |
 
-**Totais (67 identificadores, P-01 a P-67):** 17 resolvidas · 10 com resolução proposta ou
-parcial · 40 abertas.
+**Totais (67 identificadores, P-01 a P-67):** 19 resolvidas · 10 com resolução proposta ou
+parcial · 38 abertas.

diff --git a/semana-14/anexo-a-matriz-rastreabilidade-final.md b/semana-14/anexo-a-matriz-rastreabilidade-final.md
@@ -82,7 +82,7 @@ acrescenta, à parte, a validação com usuários, que a DEC-76 não exige mas o
 | REQ-05 | HF-18, HF-19 ✓ | CU-07, CU-08 · `ENT-25` fora do dicionário | ⏳ | Pronto para engenharia, **com ressalvas** |
 | REQ-06 | HF-25 a HF-27 e HF-49 ✓ | E-mail de alerta (RI-20) produzido na Semana 13 (`AJ-08`) | ⏳ | Pronto para engenharia, **com ressalvas** |
 | REQ-07 | HF-28 a HF-30 ✓ | Estados pós-ação sem tela (P-47) · *"Reverter"* sem tela (P-48) | ⏳ | Pronto para engenharia, **com ressalvas** |
-| REQ-08 | HF-31 ✓ | Números da SCR-08 × massa canônica (P-62) · RNF-06 nunca medido (P-32) | ⏳ | Pronto para engenharia, **com ressalvas** |
+| REQ-08 | HF-31 ✓ | RNF-06 nunca medido (P-32) | ⏳ | Pronto para engenharia, **com ressalvas** |
 | REQ-09 | HF-32, HF-33 e HF-48 ✓ | *"Aprovar"* habilitado sem tela (P-48) | ⏳ | Pronto para engenharia, **com ressalvas** |
 | REQ-10 | HF-34, HF-35 ✓ | Exportação assíncrona só em texto (P-46) | ⏳ | Pronto para engenharia, **com ressalvas** |
 
